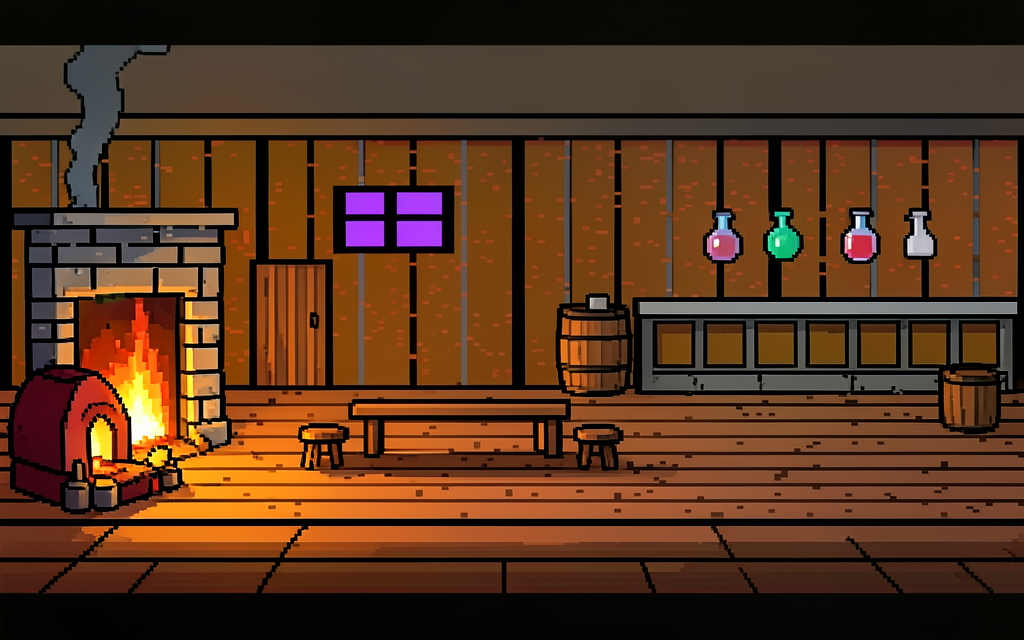
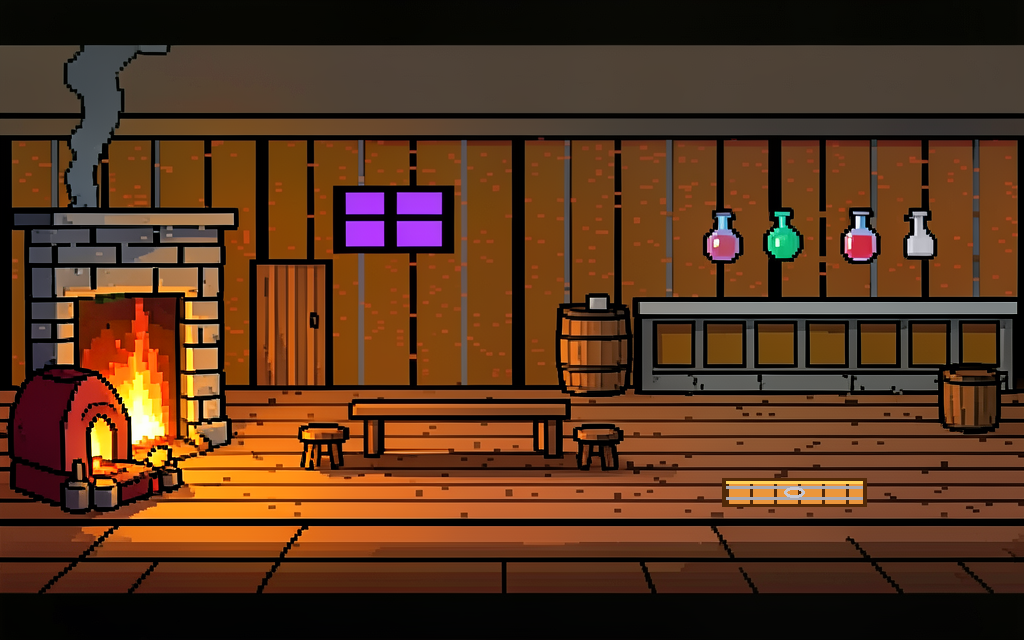
Kelder met vat lampolie en honingpot (FLUX, plein-stijl), luik in de herberg

Changed region(s): [[0.6875, 0.75, 0.8438, 0.8125]]

diff --git a/tools/flux_patches.py b/tools/flux_patches.py
@@ -2,6 +2,7 @@
 """flux_patches.py — kleine bewerkingen op de FLUX-kamerplaatjes, en de patches die daaruit volgen.
 
     python3 tools/flux_patches.py herberg
+    python3 tools/flux_patches.py kelder
 
 Een patch moet hetzelfde plaatje zijn met één kleine verandering op precies dezelfde plek. Daarom maken we hem hier
 uit het kamerplaatje zelf, met Pillow, in plaats van FLUX een nieuw plaatje te laten maken (dat past nooit precies).
@@ -10,7 +11,8 @@ Coördinaten in bronpixels van het FLUX-plaatje (1024 x 640). Een kamerpixel (x,
 bij boven=115 (zie docs/FLUX_PROMPT.md).
 
 herberg:  data/flux/herberg_bron.png (zoals FLUX hem maakte) ->
-    herberg.png              de kruik (rechts aan de muur) grijs steengoed in plaats van een cyaan fles
+    herberg.png              de kruik (rechts aan de muur) grijs steengoed in plaats van een cyaan fles, en een luik
+                             naar de kelder rechtsvoor in de vloer
     herberg_zonder_kruik.png zonder de kruik: de plankenmuur erachter
     herberg_tafel_weg.png    de tafel (met de rechterkruk) opzij geschoven; waar hij stond ligt de ziensteen
 """
@@ -28,6 +30,7 @@ OPZIJ = 60                            # zoveel bronpixels schuift de tafel naar 
 VLOER_SCHOON = (640, 900)             # x-bereik met alleen vloerplanken (rechts van de kruk, links van de emmer)
 VLOER_RIJEN = (502, 522)              # rijen met alleen vloer over de hele breedte (voor het licht per kolom)
 STEEN = (378, 444, 414, 466)          # de ziensteen (kamer VAK 58,103 8,7)
+LUIK = (722, 478, 866, 506)           # het luik naar de kelder, rechtsvoor in de vloer (kamer x 113-135, y 114-122)
 
 
 def kruik_grijs(im):
@@ -129,14 +132,47 @@ def tafel_weg(im):
     return im
 
 
+def luik(im):
+    """Een houten luik in de vloer met een ijzeren ring. De randen donkerbruin, niet zwart: een zwarte lijn van
+    9 kamerpixels hoog zou de loopvakcontrole breken (het luik ligt in de vloer, je loopt eroverheen)."""
+    d = ImageDraw.Draw(im)
+    x1, y1, x2, y2 = LUIK
+    rand, hout, licht = (80, 40, 8), (235, 150, 60), (255, 210, 90)
+    d.rectangle((x1, y1, x2, y2), fill=rand)
+    d.rectangle((x1 + 4, y1 + 3, x2 - 4, y2 - 3), fill=hout)
+    for x in range(x1 + 4, x2 - 4, 24):                 # planken
+        d.rectangle((x, y1 + 3, x + 2, y2 - 3), fill=rand)
+    d.rectangle((x1 + 4, y1 + 3, x2 - 4, y1 + 5), fill=licht)
+    for y in (y1 + 8, y2 - 9):                          # ijzeren banden
+        d.rectangle((x1 + 4, y, x2 - 4, y + 2), fill=(170, 170, 180))
+    cx, cy = (x1 + x2) // 2, (y1 + y2) // 2             # de ring
+    d.ellipse((cx - 10, cy - 5, cx + 10, cy + 5), outline=(200, 200, 210), width=3)
+    return im
+
+
 def herberg():
     bron = Image.open(os.path.join(FLUX, "herberg_bron.png")).convert("RGB")
-    basis = kruik_grijs(bron.copy())
+    basis = luik(kruik_grijs(bron.copy()))
     basis.save(os.path.join(FLUX, "herberg.png"))
     zonder_kruik(basis.copy()).save(os.path.join(FLUX, "herberg_zonder_kruik.png"))
     tafel_weg(basis.copy()).save(os.path.join(FLUX, "herberg_tafel_weg.png"))
     print("[patches] herberg: herberg.png, herberg_zonder_kruik.png, herberg_tafel_weg.png")
 
 
+HONINGPOT = (918, 245, 972, 293)      # de ronde gele pot met deksel, rechts op de onderste plank
+MUUR_SCHUIF = -56                     # daar links van staat alleen muur (tussen de gele jampot en de honingpot)
+
+
+def kelder():
+    """kelder_bron.png -> kelder.png (zoals hij is) en kelder_zonder_honingpot.png (muur waar de pot stond)."""
+    bron = Image.open(os.path.join(FLUX, "kelder_bron.png")).convert("RGB")
+    bron.save(os.path.join(FLUX, "kelder.png"))
+    zonder = bron.copy()
+    x1, y1, x2, y2 = HONINGPOT
+    zonder.paste(bron.crop((x1 + MUUR_SCHUIF, y1, x2 + MUUR_SCHUIF, y2 - 3)), (x1, y1))
+    zonder.save(os.path.join(FLUX, "kelder_zonder_honingpot.png"))
+    print("[patches] kelder: kelder.png, kelder_zonder_honingpot.png")
+
+
 if __name__ == "__main__":
-    {"herberg": herberg}[sys.argv[1]]()
+    {"herberg": herberg, "kelder": kelder}[sys.argv[1]]()

diff --git a/tools/maak_kamers.py b/tools/maak_kamers.py
@@ -256,12 +256,79 @@ def plein_deur_open():
     return img
 
 
+def honingpot(d, x, y):
+    """een dikke gele pot met een deksel (8 x 8 kamerpixels)"""
+    rect(d, x, y + 1, x + 7, y + 7, ZWART)
+    rect(d, x + 1, y + 2, x + 6, y + 7, GEEL)
+    rect(d, x + 1, y + 2, x + 2, y + 6, ORANJE)
+    rect(d, x + 2, y, x + 5, y + 1, BRUIN)
+    rect(d, x + 3, y - 1, x + 4, y - 1, ZWART)
+
+
+def kelder(met_honingpot=True):
+    """De kelder onder de herberg: de trap naar boven links, het grote vat lampolie, planken met potten rechts."""
+    rnd = random.Random(11)
+    img = Image.new("RGB", (W, H), ZWART)
+    d = ImageDraw.Draw(img)
+    rect(d, 0, 1, 159, 6, BRUIN)                        # balken: de vloer van de herberg
+    for x in range(0, 160, 20):
+        rect(d, x, 1, x + 1, 6, ZWART)
+    stenen_muur(d, 0, 7, 159, 79, rnd)
+    # het luik boven de trap (licht van de herberg) en de trap omlaag, links
+    rect(d, 2, 7, 26, 14, ZWART)
+    rect(d, 4, 7, 24, 12, ORANJE)
+    for i in range(9):                                  # treden: van linksboven naar de vloer
+        y = 16 + i * 7
+        x1 = 2 + i
+        rect(d, x1 - 1, y - 1, x1 + 24, y + 2, ZWART)
+        rect(d, x1, y, x1 + 23, y + 1, BRUIN)
+        rect(d, x1, y, x1 + 23, y, ORANJE)
+    rect(d, 28, 14, 29, 79, ZWART)                      # de trapleuning
+    rect(d, 30, 14, 30, 79, BRUIN)
+    # een rooster hoog in de muur: schemering van buiten
+    rect(d, 48, 12, 62, 20, ZWART)
+    rect(d, 49, 13, 61, 19, PAARS)
+    for x in (52, 55, 58):
+        rect(d, x, 13, x, 19, ZWART)
+    # het grote vat lampolie met een kraan, op een stelling
+    rect(d, 64, 72, 102, 79, ZWART)
+    rect(d, 65, 73, 101, 75, BRUIN)
+    vat(d, 68, 34, 98, 72)
+    rect(d, 81, 58, 86, 61, ZWART)                      # de kraan
+    rect(d, 82, 59, 85, 60, LGRIJS)
+    rect(d, 84, 62, 85, 64, LGRIJS)
+    rect(d, 80, 76, 88, 79, DGRIJS)                     # een plasje olie eronder
+    # planken rechts met potten en flessen; de honingpot op de onderste plank
+    for y in (34, 54):
+        rect(d, 110, y, 157, y + 1, BRUIN)
+        rect(d, 110, y + 2, 157, y + 2, ZWART)
+    for x, kl in ((114, ROOD), (122, GROEN), (138, LGRIJS), (148, ROOD)):
+        rect(d, x - 1, 25, x + 4, 33, ZWART)
+        rect(d, x, 26, x + 3, 33, kl)
+    for x, kl in ((114, LGRIJS), (146, GROEN)):
+        rect(d, x - 1, 45, x + 4, 53, ZWART)
+        rect(d, x, 46, x + 3, 53, kl)
+    if met_honingpot:
+        honingpot(d, 128, 46)
+    # kisten rechtsonder
+    for x1, y1, x2 in ((134, 64, 156), (140, 56, 152)):
+        rect(d, x1 - 1, y1 - 1, x2 + 1, 79, ZWART)
+        rect(d, x1, y1, x2, 79, BRUIN)
+        rect(d, x1, y1, x2, y1, ORANJE)
+    # vloer: aangestampte aarde
+    rect(d, 0, 80, 159, 125, BRUIN)
+    vlekken(d, 0, 80, 159, 125, ORANJE, 0.08, rnd)
+    rect(d, 0, 126, 159, 127, ZWART)
+    return img
+
+
 def main():
     os.makedirs(UIT, exist_ok=True)
     plaatjes = {"herberg.png": herberg(), "herberg_tafel_weg.png": herberg(tafel_weg=True),
                 "herberg_zonder_kruik.png": herberg(met_kruik=False),
                 "smit.png": smit(), "smit_vuur.png": smit(vuur_aan=True),
-                "bosrand.png": bosrand(), "plein_deur_open.png": plein_deur_open()}
+                "bosrand.png": bosrand(), "plein_deur_open.png": plein_deur_open(),
+                "kelder.png": kelder(), "kelder_zonder_honingpot.png": kelder(met_honingpot=False)}
     for naam, img in plaatjes.items():
         img.save(os.path.join(UIT, naam))
     print("[plaatjes] %s" % ", ".join(plaatjes))

diff --git a/docs/LOGBOEK.md b/docs/LOGBOEK.md
@@ -543,3 +543,18 @@ na het titelscherm wordt één toneel met spriteanimatie, en Mira komt aan het e
   Vex en daarna Mira in het vrijgekomen slot, met screenshots pixel voor pixel.
 
 **Getest:** 22/22 compiler, 13/13 banden.
+
+## 2026-11-13 — De kelder (scenario hoofdstuk 1)
+
+- Eigen voorlopig plaatje (`maak_kamers.py kelder()`, trap links, vat met kraan, planken met de honingpot, rooster,
+  kisten), daarna FLUX in de stijl van het plein (2 referentiebeelden); de gebruiker koos versie 2.
+- `tools/flux_patches.py kelder`: `kelder_bron.png` → `kelder.png` en `kelder_zonder_honingpot.png` (de bakstenen
+  muur van ernaast op de plek van de pot). Patch `honingpot_weg:140,40,16,16`.
+- `scripts/kelder.hcs`: trap (terug naar de herberg), vat lampolie (Gebruik kruik met vat), honingpot (Pak; "Voor
+  de bijen die er niet meer zijn."), planken, kisten, raampje. LOOPKLEUREN oranje bruin rood (rood: een vlek olie).
+- Herberg: een luik rechtsvoor in de vloer (getekend in `flux_patches.py herberg`, licht hout met ijzeren banden; de
+  randen donkerbruin zodat de loopvakcontrole klopt). Het vat in de herberg is nu een leeg biervat.
+- De honingpot komt in de inventaris vóór het zwaard (kelder.hcs vóór spel.hcs): de oplossingsband is daarop aangepast
+  en loopt nu via de kelder.
+
+**Getest:** 22/22 compiler, 13/13 banden.
